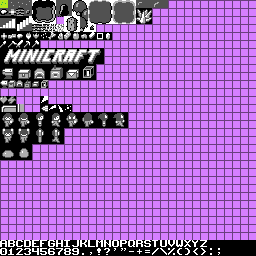
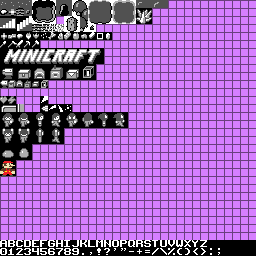
Monstruo mario

Changed region(s): [[0.0, 0.625, 0.0625, 0.6875], [0.0, 0.0, 0.0312, 0.0312]]

diff --git a/src/com/mojang/ld22/entity/Mario.java b/src/com/mojang/ld22/entity/Mario.java
@@ -1,0 +1,102 @@
+package com.mojang.ld22.entity;
+
+import com.mojang.ld22.gfx.Color;
+import com.mojang.ld22.gfx.HojaSprites;
+import com.mojang.ld22.gfx.Screen;
+import com.mojang.ld22.gfx.Sprite;
+import com.mojang.ld22.item.ResourceItem;
+import com.mojang.ld22.item.resource.Resource;
+
+/**
+ *
+ * @author JAVIER
+ */
+public class Mario extends Mob{
+        private int xa, ya;
+	private int lvl;
+        private Sprite sprite = new Sprite(8, 0, 0, HojaSprites.SHEET_1);
+	private int randomWalkTime = 0;
+
+	public Mario(int lvl) {
+		this.lvl = lvl;
+		x = random.nextInt(64 * 16);
+		y = random.nextInt(64 * 16);
+		health = maxHealth = lvl * lvl * 15;
+
+	}
+
+	public void tick() {
+		super.tick();
+
+		if (level.player != null && randomWalkTime == 0) {
+			int xd = level.player.x - x;
+			int yd = level.player.y - y;
+			if (xd * xd + yd * yd < 50 * 50) {
+				xa = 0;
+				ya = 0;
+				if (xd < 0) xa = -1;
+				if (xd > 0) xa = +1;
+				if (yd < 0) ya = -1;
+				if (yd > 0) ya = +1;
+			}
+		}
+
+		int speed = tickTime & 1;
+		if (!move(xa * speed, ya * speed) || random.nextInt(200) == 0) {
+			randomWalkTime = 60;
+			xa = (random.nextInt(3) - 1) * random.nextInt(2);
+			ya = (random.nextInt(3) - 1) * random.nextInt(2);
+		}
+		if (randomWalkTime > 0) randomWalkTime--;
+	}
+
+	public void render(Screen screen) {
+		int xt = 0;
+		int yt = 20;
+
+		int flip1 = (walkDist >> 3) & 1;
+		int flip2 = (walkDist >> 3) & 1;
+
+		int xo = x - 8;
+		int yo = y - 11;
+                
+                //screen.render(hurtTime, hurtTime, sprite);
+                
+
+		int col = Color.get(-1, 10, 252, 050);
+		if (lvl == 2) col = Color.get(-1, 100, 522, 050);
+		if (lvl == 3) col = Color.get(-1, 111, 444, 050);
+		if (lvl == 4) col = Color.get(-1, 000, 111, 020);
+		if (hurtTime > 0) {
+			col = Color.get(-1, 555, 555, 555);
+		}
+                
+                
+                
+                
+		screen.render(xo + 8 * flip1, yo + 0, xt + yt * 32, col, flip1);
+		screen.render(xo + 8 - 8 * flip1, yo + 0, xt + 1 + yt * 32, col, flip1);
+		screen.render(xo + 8 * flip2, yo + 8, xt + (yt + 1) * 32, col, flip2);
+		screen.render(xo + 8 - 8 * flip2, yo + 8, xt + 1 + (yt + 1) * 32, col, flip2);
+	}
+
+	protected void touchedBy(Entity entity) {
+		if (entity instanceof Player) {
+			entity.hurt(this, lvl + 1, dir);
+		}
+	}
+
+	protected void die() {
+		super.die();
+
+		int count = random.nextInt(2) + 1;
+		for (int i = 0; i < count; i++) {
+			level.add(new ItemEntity(new ResourceItem(Resource.cloth), x + random.nextInt(11) - 5, y + random.nextInt(11) - 5));
+		}
+
+		if (level.player != null) {
+			level.player.score += 50 * lvl;
+		}
+
+	}
+}

diff --git a/src/com/mojang/ld22/level/Level.java b/src/com/mojang/ld22/level/Level.java
@@ -8,6 +8,7 @@ import java.util.Random;
 
 import com.mojang.ld22.entity.AirWizard;
 import com.mojang.ld22.entity.Entity;
+import com.mojang.ld22.entity.Mario;
 import com.mojang.ld22.entity.Mob;
 import com.mojang.ld22.entity.Player;
 import com.mojang.ld22.entity.Slime;
@@ -113,8 +114,8 @@ public class Level {
 	public void renderBackground(Screen screen, int xScroll, int yScroll) {
 		int xo = xScroll >> 4;
 		int yo = yScroll >> 4;
-		int w = (screen.w + 15) >> 4;
-		int h = (screen.h + 15) >> 4;
+		int w = (screen.WIDTH + 15) >> 4;
+		int h = (screen.HEIGHT + 15) >> 4;
 		screen.setOffset(xScroll, yScroll);
 		for (int y = yo; y <= h + yo; y++) {
 			for (int x = xo; x <= w + xo; x++) {
@@ -131,8 +132,8 @@ public class Level {
 	public void renderSprites(Screen screen, int xScroll, int yScroll) {
 		int xo = xScroll >> 4;
 		int yo = yScroll >> 4;
-		int w = (screen.w + 15) >> 4;
-		int h = (screen.h + 15) >> 4;
+		int w = (screen.WIDTH + 15) >> 4;
+		int h = (screen.HEIGHT + 15) >> 4;
 
 		screen.setOffset(xScroll, yScroll);
 		for (int y = yo; y <= h + yo; y++) {
@@ -151,8 +152,8 @@ public class Level {
 	public void renderLight(Screen screen, int xScroll, int yScroll) {
 		int xo = xScroll >> 4;
 		int yo = yScroll >> 4;
-		int w = (screen.w + 15) >> 4;
-		int h = (screen.h + 15) >> 4;
+		int w = (screen.WIDTH + 15) >> 4;
+		int h = (screen.HEIGHT + 15) >> 4;
 
 		screen.setOffset(xScroll, yScroll);
 		int r = 4;
@@ -249,8 +250,12 @@ public class Level {
 			int lvl = random.nextInt(maxLevel - minLevel + 1) + minLevel;
 			if (random.nextInt(2) == 0)
 				mob = new Slime(lvl);
-			else
-				mob = new Zombie(lvl);
+                        else if (random.nextInt(2) == 0) {
+                                mob = new Zombie(lvl);
+                        } else {
+                                mob = new Mario(lvl);
+                        }
+                       
 
 			if (mob.findStartPos(this)) {
 				this.add(mob);

diff --git a/src/com/mojang/ld22/screen/TitleMenu.java b/src/com/mojang/ld22/screen/TitleMenu.java
@@ -38,7 +38,7 @@ public class TitleMenu extends Menu {
 		int h = 2;
 		int w = 13;
 		int titleColor = Color.get(0, 010, 131, 551);
-		int xo = (screen.w - w * 8) / 2;
+		int xo = (screen.WIDTH - w * 8) / 2;
 		int yo = 24;
 		for (int y = 0; y < h; y++) {
 			for (int x = 0; x < w; x++) {
@@ -53,9 +53,9 @@ public class TitleMenu extends Menu {
 				msg = "> " + msg + " <";
 				col = Color.get(0, 555, 555, 555);
 			}
-			Font.draw(msg, screen, (screen.w - msg.length() * 8) / 2, (8 + i) * 8, col);
+			Font.draw(msg, screen, (screen.WIDTH - msg.length() * 8) / 2, (8 + i) * 8, col);
 		}
 
-		Font.draw("(Arrow keys,X and C)", screen, 0, screen.h - 8, Color.get(0, 111, 111, 111));
+		Font.draw("(Arrow keys,X and C)", screen, 0, screen.HEIGHT - 8, Color.get(0, 111, 111, 111));
 	}
 }

diff --git a/src/com/mojang/ld22/screen/LevelTransitionMenu.java b/src/com/mojang/ld22/screen/LevelTransitionMenu.java
@@ -24,7 +24,7 @@ public class LevelTransitionMenu extends Menu {
 					if (dir > 0)
 						screen.render(x * 8, y * 8, 0, 0, 0);
 					else
-						screen.render(x * 8, screen.h - y * 8 - 8, 0, 0, 0);
+						screen.render(x * 8, screen.HEIGHT - y * 8 - 8, 0, 0, 0);
 				}
 			}
 		}

diff --git a/src/com/mojang/ld22/entity/Player.java b/src/com/mojang/ld22/entity/Player.java
@@ -101,7 +101,7 @@ public class Player extends Mob {
 
 		if (input.attack.clicked) {
 			if (stamina == 0) {
-
+                            
 			} else {
 				stamina--;
 				staminaRecharge = 0;
